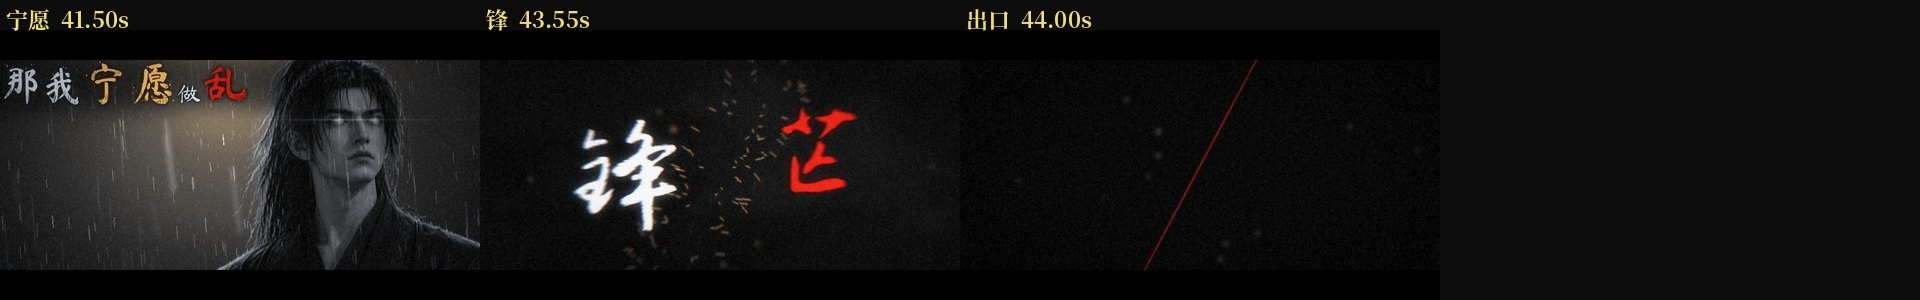
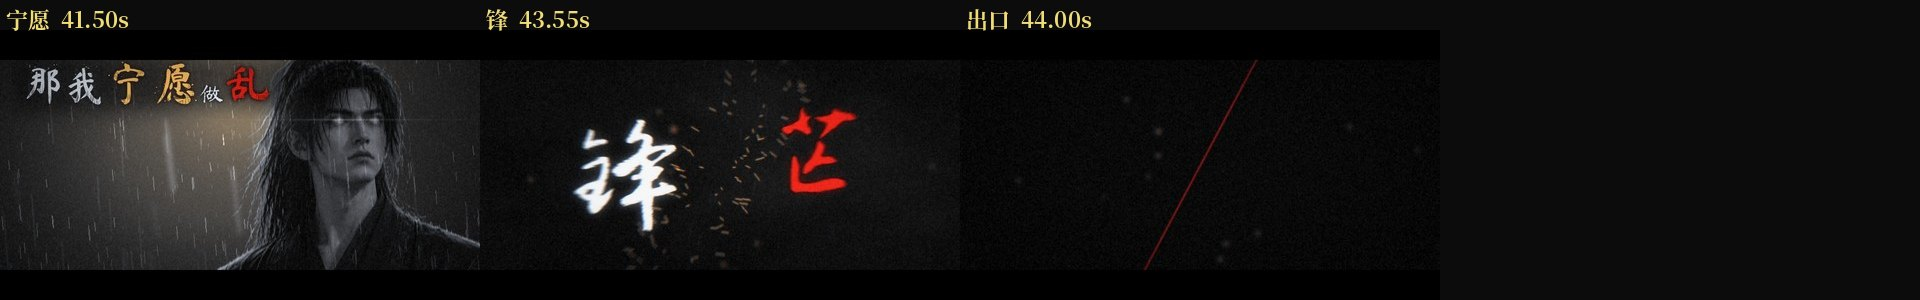
[A组] 第七棒 7/n：节奏素材 A_rhythm_v1（每镜起/中/止三帧，29 行 × 3，p0–p3）；歌词：「若正义」38.30 前退净不与「由权势」叠残字、「那我宁愿…」中心右移不出左画；联系表 v7 / keys v6 重出

Changed region(s): [[0.0, 0.21, 0.1875, 0.36]]

diff --git a/units/sec_a_intro_verse1.py b/units/sec_a_intro_verse1.py
@@ -1745,10 +1745,10 @@ LY2 = [
     (2, [(4, 96, _Wt), (5, 96, _Wt), (6, 96, _Wt)], 1580, 820, 24.40, False),                       # 定对错（第七棒：后景脸已去，落在右下屏风暗部，不压人）
     (4, [(k, 80, _R if k == 1 else _Wt) for k in range(0, 5)], 420, 905, 30.74, False),             # 我杀过恶徒（第六棒：挪到左下暗区鬼屠刀下，不贴恶徒腿）
     (4, [(k, 80, _Wt) for k in range(5, 10)], 640, 880, 32.55, False),                              # 也放过混账
-    (6, [(0, 120, _Wt), (1, 220, _R), (2, 220, _R)], 600, 905, 38.08, False),   # 第六棒：挨着金光里的巨印剪影                       # 若「正义」
+    (6, [(0, 120, _Wt), (1, 220, _R), (2, 220, _R)], 600, 905, 37.90, False),   # 第七棒：38.30 前退净，不与「由权势」叠成残字   # 第六棒：挨着金光里的巨印剪影                       # 若「正义」
     (6, [(3, 80, _Wt), (4, 140, _G), (5, 140, _G), (6, 80, _Wt), (7, 80, _Wt)], 960, 925, 39.85, False),  # 由「权势」执掌（第六棒：离开印面，放到下三分之一）
     (7, [(0, 160, _Wt), (1, 160, _Wt), (2, 180, _G), (3, 180, _G), (4, 96, _Wt), (5, 180, _R), (6, 180, _R), (7, 96, _Wt)],
-     640, 300, 42.40, True),                                                                        # 那我「宁愿」做「乱世」的（随刀光逐字点亮）
+     730, 300, 42.40, True),   # 第七棒：中心 640→730，首字「那」不出左边画                                                                        # 那我「宁愿」做「乱世」的（随刀光逐字点亮）
 ]
 
 
@@ -1756,7 +1756,7 @@ def lyrics(fr, t):
     for (li, chars, cx, by, t_out, sweep) in LY2:
         t_on = CT(li, chars[0][0]) - 0.3
         if li == 2 and chars[0][0] == 0: t_on = max(t_on, V(22.52))          # 第五棒：「谁在高处」等 V06「寒光」切走后再落（不叠团）
-        if li == 6 and chars[0][0] == 3: t_on = max(t_on, V(38.10))          # 第六棒：「由权势执掌」等 V16「若正义」切走后再落
+        if li == 6 and chars[0][0] == 3: t_on = max(t_on, V(38.30))          # 第六棒：「由权势执掌」等 V16「若正义」切走后再落
         if not (t_on <= t < t_out + 0.4): continue
         out = clamp01((t - t_out) / 0.35)
         adv = [s * 1.04 for (_, s, _) in chars]

diff --git a/tools/a_contact.py b/tools/a_contact.py
@@ -70,7 +70,7 @@ if __name__ == '__main__' and sys.argv[1] in ('part', 'assemble'):
             Image.fromarray(M.frame(int(round(t * FPS)), cache)).resize((480, 270), Image.LANCZOS).save('/tmp/acon/%s_%03d.jpg' % (kind, i), quality=90)
             print(i, lab, flush=True)
     else:
-        out = sys.argv[3]; cols, tw, th = 4, 480, 270; per = int(sys.argv[4]) if len(sys.argv) > 4 else 4
+        out = sys.argv[3]; cols, tw, th = (3 if kind == 'triple' else 4), 480, 270; per = int(sys.argv[4]) if len(sys.argv) > 4 else 4
         rows = (len(its) + cols - 1) // cols
         sh = Image.new('RGB', (cols * tw, rows * (th + 30)), (12, 12, 12)); d = ImageDraw.Draw(sh)
         for i, (lab, t) in enumerate(its):
